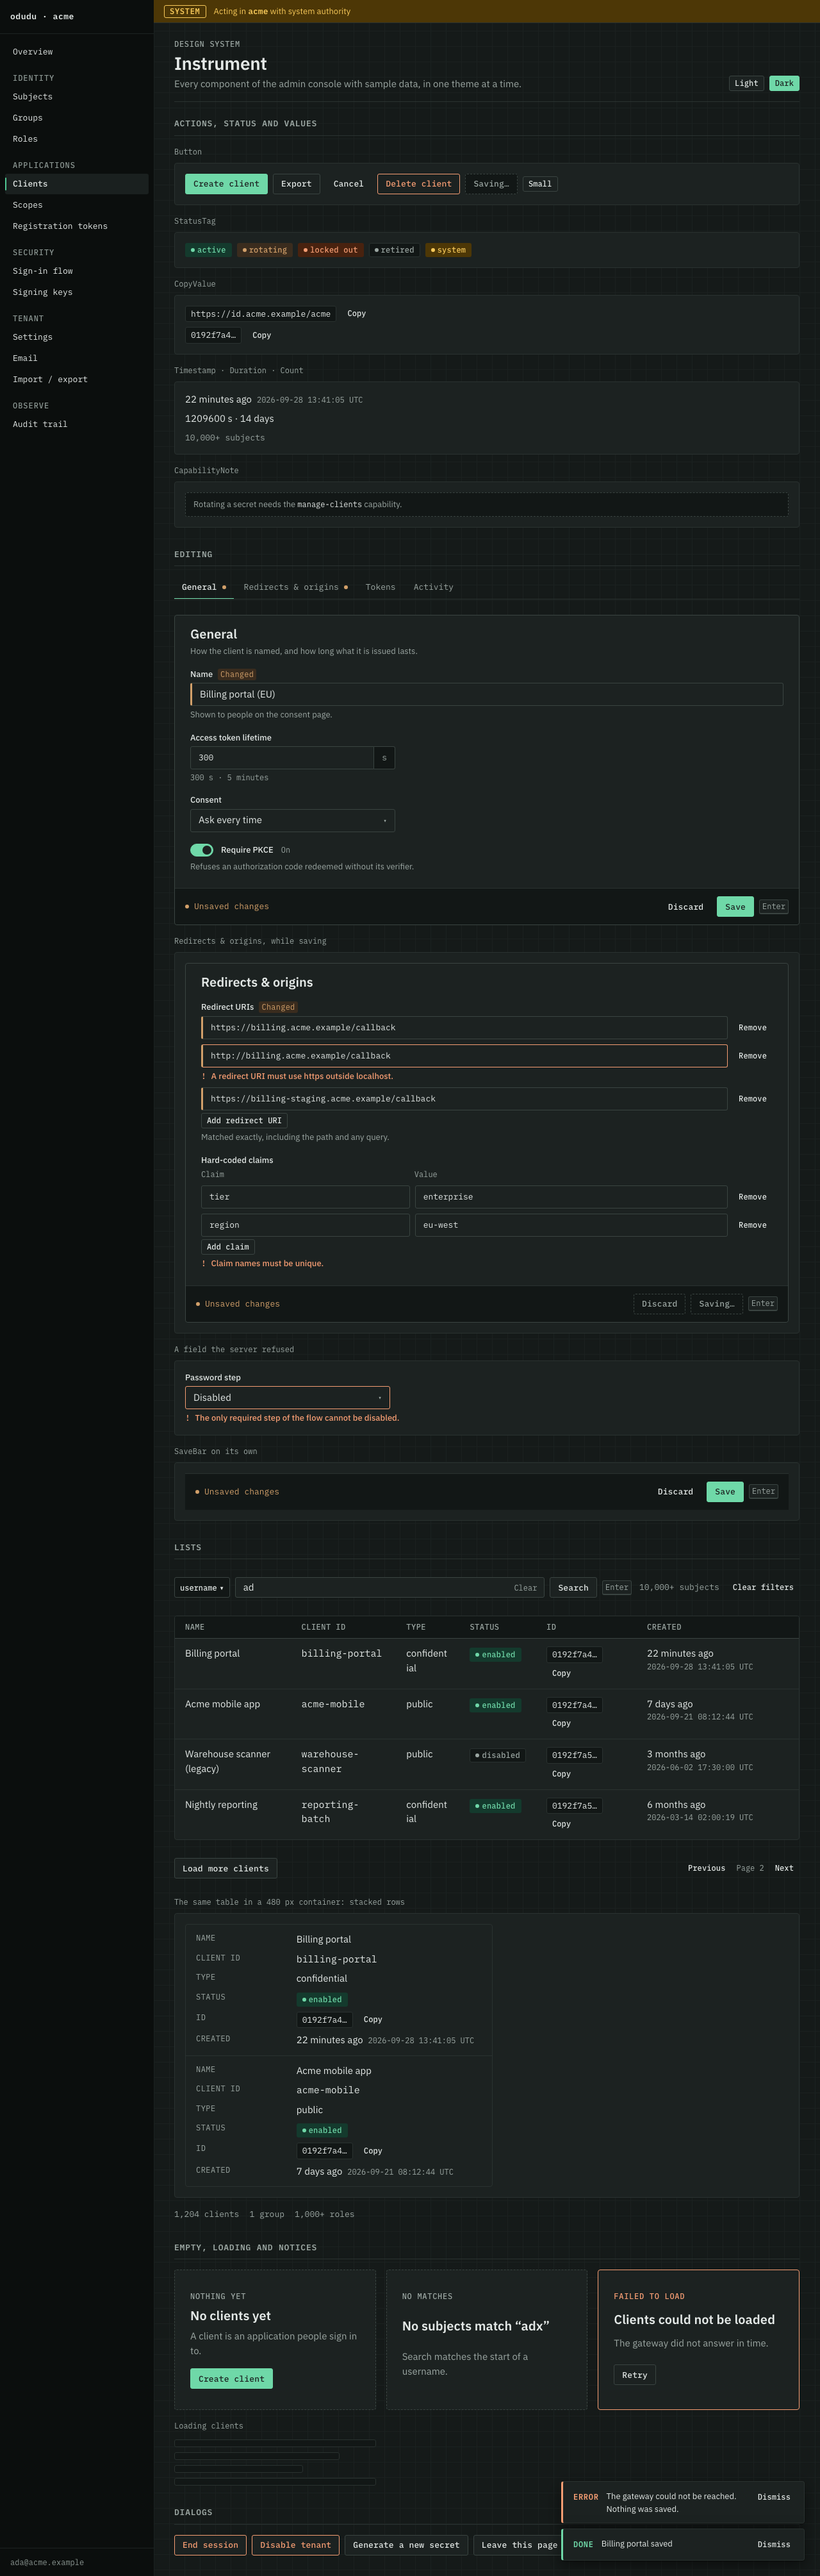
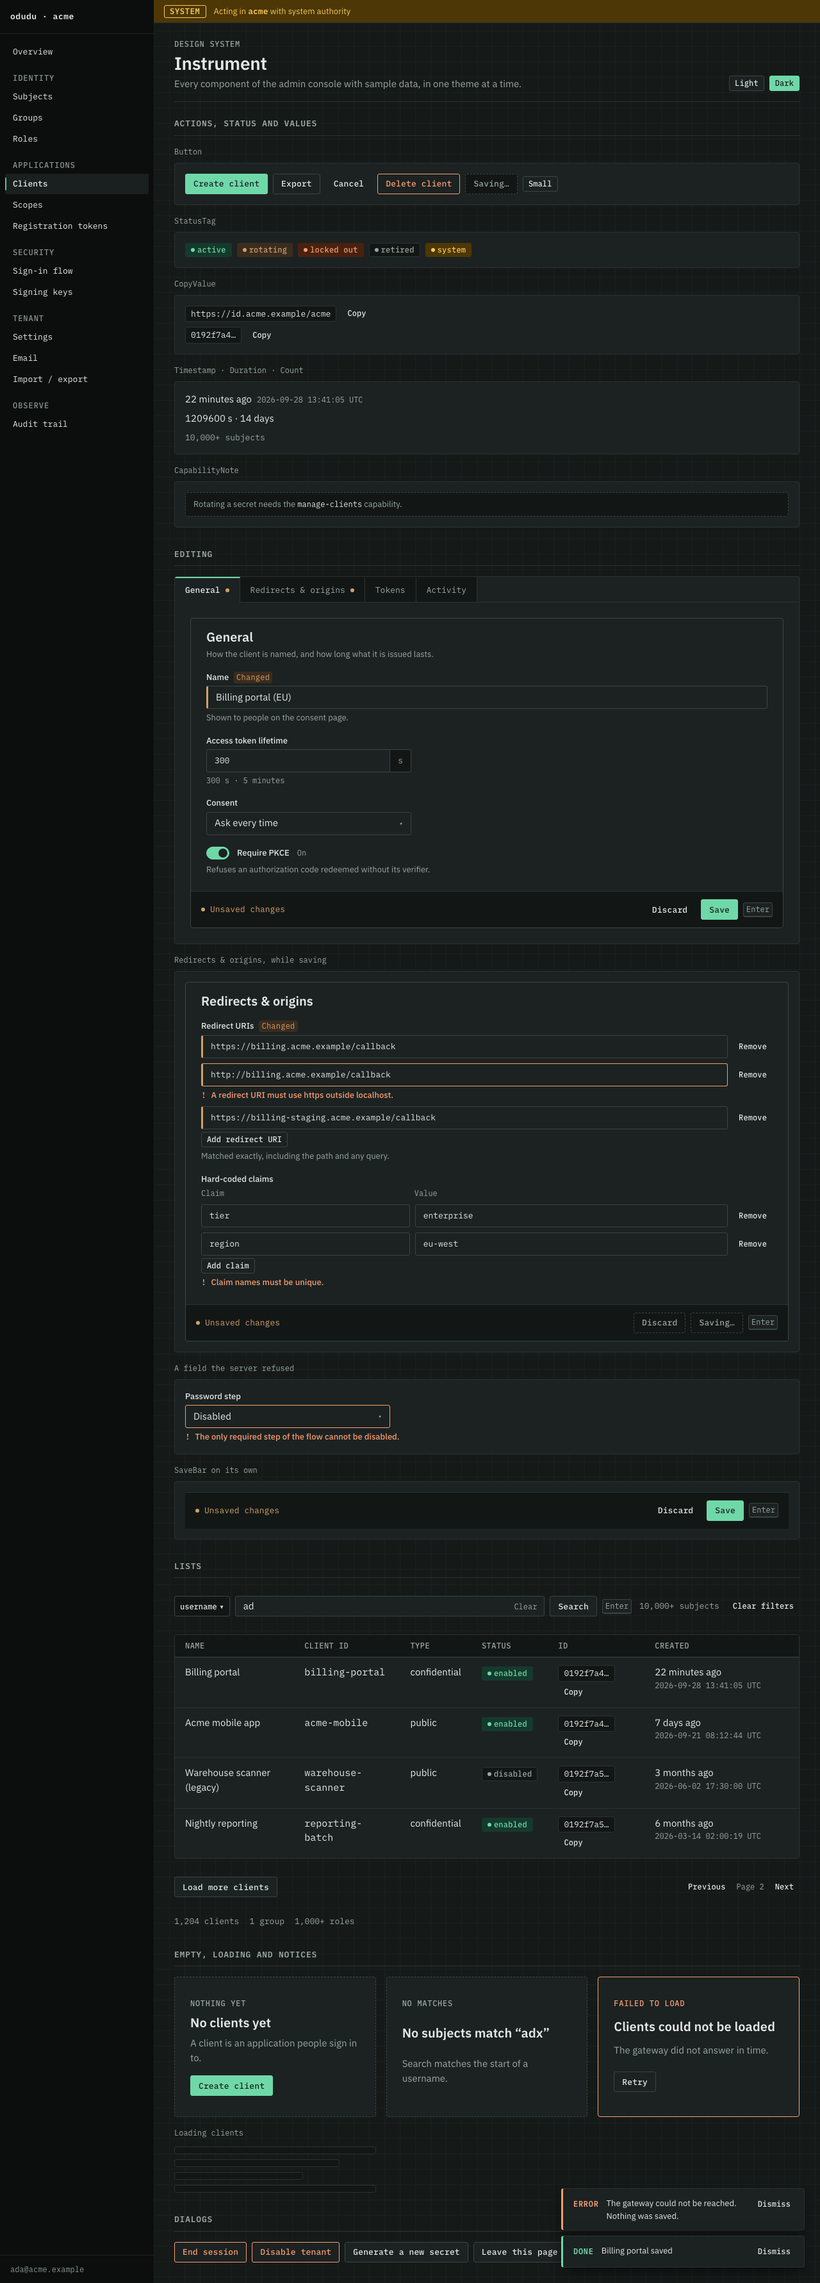
Regenerate the gallery screenshots and add close-ups of the tabs

diff --git a/apps/admin-console/scripts/galleryScreenshots.ts b/apps/admin-console/scripts/galleryScreenshots.ts
@@ -13,7 +13,12 @@ type Theme = (typeof THEMES)[number];
 
 async function shoot(
   browser: Browser,
-  { theme, width, dialog }: { theme: Theme; width: number; dialog?: string },
+  {
+    theme,
+    width,
+    dialog,
+    tabs = false,
+  }: { theme: Theme; width: number; dialog?: string; tabs?: boolean },
 ): Promise<void> {
   const page = await browser.newPage({
     viewport: { width, height: 900 },
@@ -24,6 +29,15 @@ async function shoot(
   await page.goto(`http://localhost:${String(PORT)}/console/gallery.html?${query.toString()}`);
   await page.getByRole('heading', { level: 1, name: 'Instrument' }).waitFor();
   await page.evaluate(() => document.fonts.ready.then(() => true));
+  if (tabs) {
+    // The toasts sit over the viewport; a close-up has no use for them.
+    const dismiss = page.getByRole('button', { name: /^Dismiss/u });
+    while ((await dismiss.count()) > 0) await dismiss.first().click();
+    const head = page.getByRole('tablist', { name: 'Client sections' }).locator('..');
+    await head.screenshot({ path: `${OUT}/tabs-${theme}.png` });
+    await page.close();
+    return;
+  }
   const name =
     dialog === undefined ? `gallery-${String(width)}-${theme}` : `dialog-${dialog}-${theme}`;
   // A full-page capture keeps sticky and fixed layers where the first screen
@@ -43,6 +57,7 @@ try {
   for (const theme of THEMES) {
     for (const width of WIDTHS) await shoot(browser, { theme, width });
     for (const dialog of DIALOGS) await shoot(browser, { theme, width: 1280, dialog });
+    await shoot(browser, { theme, width: 1280, tabs: true });
   }
 } finally {
   await browser.close();
